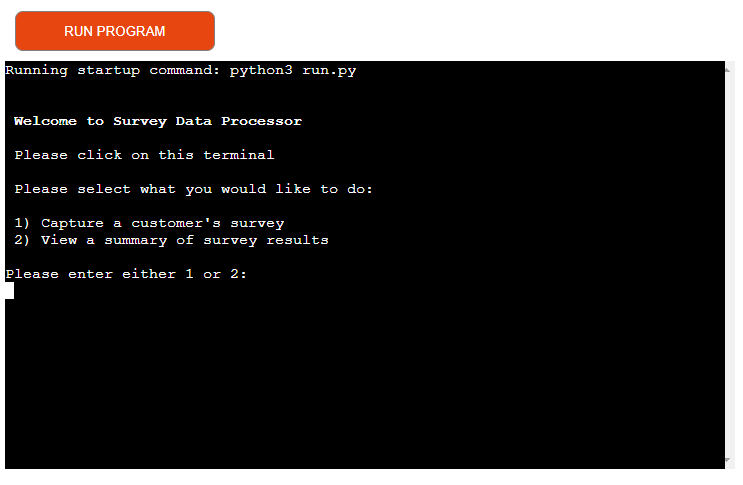
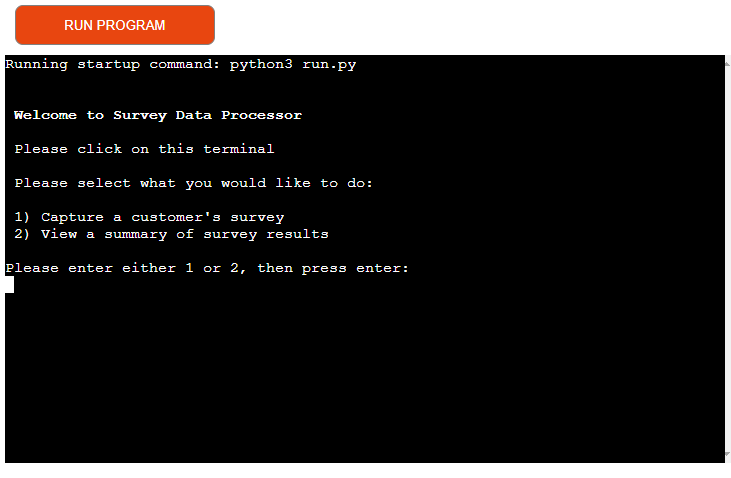
docs: Replace screenshots after some editing of print messages, add some content to features and add data model section to readme

diff --git a/README.md b/README.md
@@ -7,7 +7,7 @@
 - Here is an overview of the intial concept:
 
 
-![initial_flowchart](assets/images/screenshots/complete_lucid_chart.png)
+ ![initial_flowchart](assets/images/screenshots/complete_lucid_chart.png)
 
 
 I decided to create a data processor for capturing and processing survey data of a customer satifaction questionaire for a ficticious new cellphone that was launched. It must allow users to input survey ratings, validate the users input, allocate the data with an entry number, store the validated data on Google Sheets while also allowing the user to get a summary report of captured and stored data from the surveys captured. I also wanted to create a function that would create generic survey data for filling the worksheet with data to process and add the functionality for the user to email the summary results.
@@ -17,7 +17,7 @@ I decided to create a data processor for capturing and processing survey data of
 - This was now the scope of my project:
 
 
-![actual_flowchart](assets/images/screenshots/actual_lucid_chart.png)
+ ![actual_flowchart](assets/images/screenshots/actual_lucid_chart.png)
 
 
 ## Setup of Gitpod Workspace and resources
@@ -35,35 +35,55 @@ I made use of Code Institutes "Love Sandwiches Walkthrough Project", "Getting Se
 - When initializing the program, the user is dispalyed a welcome message, instructions and options either to capture a customer survey or view a summary of the results captured thus far.
 
 
-![welcome_screen](assets/images/screenshots/welcome_screen.png)
+ ![welcome_screen](assets/images/screenshots/welcome_screen.png)
 
 
 - User input is validated by the program and will display custom error messages that are highlighted in red if the user has made some form of invalid entry and the question will be repeated in the terminal.
 
 
-![welcome_invalid_input](assets/images/screenshots/welcome_invalid_entry.png)
+ ![welcome_invalid_input](assets/images/screenshots/welcome_invalid.png)
 
 
 - If the user selects the first option and presses enter, instructions for capturing a survey are presented to the user.
 
 
-![instructions_survey_entry](assets/images/screenshots/instructions_survey_entry.png)
+ ![instructions_survey_entry](assets/images/screenshots/survey_capture_instructions.png)
 
 - If the user makes an invalid entry, the user will be presented with a custom error message highlighted in red and the instructions will be repeated on the terminal.
 
-![error_sample1](assets/images/screenshots/survey_entry_sample_more_than_ten.png)
+ ![error_sample_and_instructions](assets/images/screenshots/survey_capture_invalid_entry.png)
 
-![error_sample2](assets/images/screenshots/survey_entry_sample_string.png)
 
-![error_sample_and_instructions](assets/images/screenshots/survey_entry_invalid_less_than_4.png)
+- Sample error messages:
+
+ ![error_sample1](assets/images/screenshots/survey_invalid_sample1.png)
+
+ ![error_sample2](assets/images/screenshots/survey_invalid_sample2.png)
+
 
 - Once a valid entry is provided, the user will be presented with feedback of the running processes taking place and returned to the home screen.
 
 
-![survey_valid_entry](assets/images/screenshots/survey_entry_valid.png)
+ ![survey_valid_entry](assets/images/screenshots/survey_valid_entry.png)
 
-![homescreen](assets/images/screenshots/home_screen.png)
+ ![homescreen](assets/images/screenshots/homescreen.png)
 
+
+- If the second option is selected, then the user will be displayed a summary of results by catergory as well as a total number of surveys captured.
+
+
+ ![survey_summary](assets/images/screenshots/survey_results.png)
+
+## Data Model
+
+- I decided to use Google sheets to store and hold all the data for the Survey Data Processor.
+- When capturing a survey entry, once the program has validated the users inputs, the validated data is sent and saved to a predesigned worksheet with a self generated capture number allowcated.
+
+
+ ![]()
+
+
+ - When a user selects the option to view a summary of the captured survey results, the program fetches all the necessary data from the relevant cells in the worksheet and uses this stored data to calculate the summary results.
 
 ## Testing
 
@@ -71,10 +91,10 @@ I made use of Code Institutes "Love Sandwiches Walkthrough Project", "Getting Se
 
 - Tested data_validator function with various data types and amounts of data provided:
 
- - If less than 4 values provided - ValueError raised as intended.
- - If more than 4 values provided  - ValueError raised as intended.
+ - If less than the required amount of values are provided - ValueError raised as intended.
+ - If more than the required amount of values are provided  - ValueError raised as intended.
  - If a non numerical string is provided by the user - ValueError raised as intended.
- - If each supplied result by user is between 0 and 10 - ValueError raised as intended.
+ - If each supplied interger from the user is between the minimum and maximum required - ValueError raised as intended.
 
 - Tested if program is updating the Google worksheet correctly - Working as intended.
 - I also made use of the Python type method (**type()**) in order to check data types of returned results where needed.
@@ -95,7 +115,7 @@ I made use of Code Institutes "Love Sandwiches Walkthrough Project", "Getting Se
 
 ### Unfixed Bugs
 
-- 
+- All bugs have been attended to and resolved.
 
 ## Deployment
 
@@ -124,7 +144,7 @@ Here is the live link [Survey Data Capture and Extraction Application](https://s
 ## Deployment Testing
 
 - Found bug with how print statements are displayed on deployed site in relation with how they are inputted into workspace to avoid line being too long as described by PEP8 validator - **Resolved** by correct use of quotation marks, indentation and new line characters (\n), I managed to resolve all my display issues on the deployed site.
-- I ran multiple test on how print statements appear in the terminal and adjusted to what I feel is a good user experience, trying to keep the operation logical, simple, clean and easy to use.
+- I ran multiple tests on how print statements appear in the terminal and adjusted to what I feel is a good user experience, trying to keep the operation logical, simple, clean and easy to use.
 
 ## Credits
 
@@ -139,8 +159,3 @@ Here is the live link [Survey Data Capture and Extraction Application](https://s
 ### Content
 
 - Commit comment conventions were taken from [Cheatography](https://cheatography.com/albelop/cheat-sheets/conventional-commits/), I do not totally understand all the vernacular but tried my best to implement it as best I could.
-
-
-### Media
-
-- 
